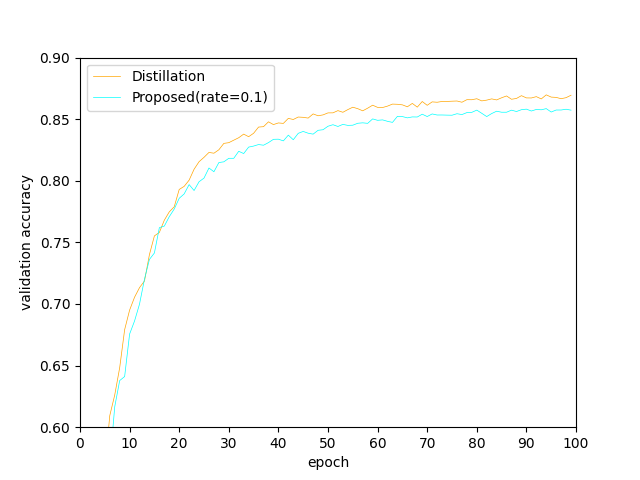
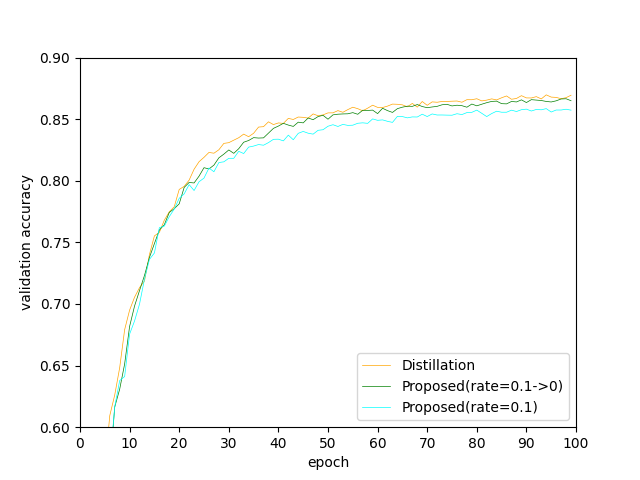
experiments

diff --git a/train.py b/train.py
@@ -15,14 +15,14 @@ from src.utils import *
 import pickle
 
 def main():
-    for i in range(1):
+    for i in range(2):
         print(i)
-        model_size = 'student'
-        epochs = 100
+        model_size = 'teacher'
+        epochs = 150
         batch_size = 128
         # torch.manual_seed(i)
         # np.random.seed(i)
-        seed_everything(i)
+        seed_everything(100+i)
             
         device = torch.device('cuda' if torch.cuda.is_available() else 'cpu')
         es = EarlyStopping(patience=5, verbose=1)
@@ -41,14 +41,10 @@ def main():
         test_dataloader = DataLoader(testset, batch_size=batch_size, shuffle=False)
         
         # setting model
-        # if model_size == 'teacher':
-        #     model = resnet_teacher().to(device)
-        # elif model_size == 'student':
-        #     model = resnet_student().to(device)
         if model_size == 'teacher':
-            model = Teacher().to(device)
+            model = resnet_teacher().to(device)
         elif model_size == 'student':
-            model = Student().to(device)
+            model = resnet_student().to(device)
 
         optim = optimizers.Adam(model.parameters())
         loss_fn = nn.CrossEntropyLoss()
@@ -98,8 +94,8 @@ def main():
             if score <= val_acc:
                 print('save param')
                 score = val_acc
-                # torch.save(model.state_dict(), './logs/resnet/' + str(model_size) + '/' + str(epochs) + '_' + str(i) + '.pth') 
-                torch.save(model.state_dict(), './logs/' + str(model_size) + '/' + str(epochs) + '_' + str(i) + '.pth') 
+                torch.save(model.state_dict(), './logs/resnet/' + str(model_size) + '/' + str(epochs) + '_' + str(i) + '.pth') 
+                # torch.save(model.state_dict(), './logs/' + str(model_size) + '/' + str(epochs) + '_' + str(i) + '.pth') 
 
             history['loss'].append(train_loss)
             history['accuracy'].append(train_acc)
@@ -108,14 +104,14 @@ def main():
 
             print(f'epoch: {epoch+1}, loss: {train_loss:.3f}, accuracy: {train_acc:.3f}, val_loss: {val_loss:.3f}, val_accuracy: {val_acc:.3f}')
         
-        # with open('./history/resnet/' + str(model_size) + '/' + str(epochs) + '_' + str(i) + '.pickle', mode='wb') as f: 
-        #     pickle.dump(history, f)
-        with open('./history/' + str(model_size) + '/' + str(epochs) + '_' + str(i) + '.pickle', mode='wb') as f: 
+        with open('./history/resnet/' + str(model_size) + '/' + str(epochs) + '_' + str(i) + '.pickle', mode='wb') as f: 
             pickle.dump(history, f)
+        # with open('./history/' + str(model_size) + '/' + str(epochs) + '_' + str(i) + '.pickle', mode='wb') as f: 
+        #     pickle.dump(history, f)
 
         # model test
-        # model.load_state_dict(torch.load('./logs/resnet/' + str(model_size) + '/' + str(epochs) + '_' + str(i) + '.pth'))
-        model.load_state_dict(torch.load('./logs/' + str(model_size) + '/' + str(epochs) + '_' + str(i) + '.pth'))
+        model.load_state_dict(torch.load('./logs/resnet/' + str(model_size) + '/' + str(epochs) + '_' + str(i) + '.pth'))
+        # model.load_state_dict(torch.load('./logs/' + str(model_size) + '/' + str(epochs) + '_' + str(i) + '.pth'))
         model.eval()
         
         test = {'acc': [], 'loss': []}
@@ -138,10 +134,10 @@ def main():
         test['acc'].append(test_acc)
         test['loss'].append(test_loss)
         
-        # with open('./history/resnet/' + str(model_size) + '/' + str(epochs) + '_' + 'test' + str(i) + '.pickle', mode='wb') as f: 
-        #     pickle.dump(test, f)
-        with open('./history/' + str(model_size) + '/' + str(epochs) + '_' + 'test' + str(i) + '.pickle', mode='wb') as f: 
+        with open('./history/resnet/' + str(model_size) + '/' + str(epochs) + '_' + 'test' + str(i) + '.pickle', mode='wb') as f: 
             pickle.dump(test, f)
+        # with open('./history/' + str(model_size) + '/' + str(epochs) + '_' + 'test' + str(i) + '.pickle', mode='wb') as f: 
+        #     pickle.dump(test, f)
         
     
 if __name__ == '__main__':

diff --git a/train_cam.py b/train_cam.py
@@ -18,11 +18,12 @@ from src.utils import *
 def main():
     for i in range(2):
         print(i)
-        cam_rate = '10' # default: '01', CAM-curriculum: '10'
-        epochs = 100
+        cam_rate = '01' # default: '01', CAM-curriculum: '10'
+        epochs = 150
         batch_size = 128
-        torch.manual_seed(i)
-        np.random.seed(i)
+        # torch.manual_seed(i)
+        # np.random.seed(i)
+        seed_everything(100+i)
         device = torch.device('cuda' if torch.cuda.is_available() else 'cpu')
         
         data_dir = './data/cifar10'
@@ -62,29 +63,29 @@ def main():
                 preds, student_features = student(images)
                 targets, teacher_features = teacher(images)
                 
-                # student_cam = create_student_cam(student, images, labels, student_features, batch_size, device)
-                # teacher_cam = create_teacher_cam(teacher, images, labels, teacher_features, batch_size, device)
-                # camloss = cam_loss(student_cam, teacher_cam)
-                # if cam_rate == '00':
-                #     loss = camloss
-                # elif cam_rate == '01':
-                #     loss = 0.5*loss_fn(preds, labels) + 0.4*T*T*soft_loss(preds, targets) + 0.1*camloss
-                # elif cam_rate == '02': 
-                #     loss = 0.5*loss_fn(preds, labels) + 0.3*T*T*soft_loss(preds, targets) + 0.2*camloss
-                # elif cam_rate == '03':
-                #     loss = 0.5*loss_fn(preds, labels) + 0.2*T*T*soft_loss(preds, targets) + 0.3*camloss
-                # elif cam_rate == '04':
-                #     loss = 0.5*loss_fn(preds, labels) + 0.1*T*T*soft_loss(preds, targets) + 0.4*camloss
-                # elif cam_rate == '05':
-                #     loss = 0.5*loss_fn(preds, labels) + 0.5*camloss
+                student_cam = create_student_cam(student, images, labels, student_features, batch_size, device)
+                teacher_cam = create_teacher_cam(teacher, images, labels, teacher_features, batch_size, device)
+                camloss = cam_loss(student_cam, teacher_cam)
+                if cam_rate == '00':
+                    loss = camloss
+                elif cam_rate == '01':
+                    loss = 0.5*loss_fn(preds, labels) + 0.4*T*T*soft_loss(preds, targets) + 0.1*camloss
+                elif cam_rate == '02': 
+                    loss = 0.5*loss_fn(preds, labels) + 0.3*T*T*soft_loss(preds, targets) + 0.2*camloss
+                elif cam_rate == '03':
+                    loss = 0.5*loss_fn(preds, labels) + 0.2*T*T*soft_loss(preds, targets) + 0.3*camloss
+                elif cam_rate == '04':
+                    loss = 0.5*loss_fn(preds, labels) + 0.1*T*T*soft_loss(preds, targets) + 0.4*camloss
+                elif cam_rate == '05':
+                    loss = 0.5*loss_fn(preds, labels) + 0.5*camloss
                 
                 # CAM Curriculum learning     
-                if epoch <= 20:
-                    student_cam = create_student_cam(student, images, labels, student_features, batch_size, device)
-                    teacher_cam = create_teacher_cam(teacher, images, labels, teacher_features, batch_size, device)
-                    loss = 0.5*loss_fn(preds, labels) + 0.4*T*T*soft_loss(preds, targets) + 0.1*cam_loss(student_cam, teacher_cam)
-                else:
-                    loss = 0.5*loss_fn(preds, labels) + 0.5*T*T*soft_loss(preds, targets)
+                # if epoch <= 20:
+                #     student_cam = create_student_cam(student, images, labels, student_features, batch_size, device)
+                #     teacher_cam = create_teacher_cam(teacher, images, labels, teacher_features, batch_size, device)
+                #     loss = 0.5*loss_fn(preds, labels) + 0.4*T*T*soft_loss(preds, targets) + 0.1*cam_loss(student_cam, teacher_cam)
+                # else:
+                #     loss = 0.5*loss_fn(preds, labels) + 0.5*T*T*soft_loss(preds, targets)
                 
                 optim.zero_grad()
                 loss.backward()

diff --git a/result.py b/result.py
@@ -3,7 +3,7 @@ import numpy as np
 import matplotlib.pyplot as plt
 
 def main():           
-    epochs = 100
+    epochs = 150
     
     # setting iteration
     if epochs == 200:
@@ -20,7 +20,17 @@ def main():
         teacher_iter = 5 
         student_iter = 0 
         st_iter      = 5 
-        cam01_iter   = 5 # NOW
+        cam01_iter   = 5 
+        cam02_iter   = 0 
+        cam03_iter   = 0
+        cam04_iter   = 0
+        cam05_iter   = 0
+        cam10_iter   = 5
+    elif epochs == 150: # 乱数系列 seed_everything
+        teacher_iter = 5 
+        student_iter = 0 
+        st_iter      = 5
+        cam01_iter   = 0
         cam02_iter   = 0 
         cam03_iter   = 0
         cam04_iter   = 0
@@ -82,39 +92,39 @@ def main():
     fig.patch.set_facecolor('white')
     plt.xlabel('epoch')
     plt.ylabel('validation accuracy')
-    # plt.plot(x, teacher_acc, label='Teacher',               linewidth=0.5, color='blue')
+    plt.plot(x, teacher_acc, label='Teacher',               linewidth=0.5, color='blue')
     # plt.plot(x, student_acc, label='Student',               linewidth=0.5, color='red')
     plt.plot(x, st_acc,      label='Distillation',          linewidth=0.5, color='orange')
     # plt.plot(x, cam10_acc,   label='Proposed(rate=0.1->0)', linewidth=0.5, color='green')
-    plt.plot(x, cam01_acc,   label='Proposed(rate=0.1)',    linewidth=0.5, color='cyan')
+    # plt.plot(x, cam01_acc,   label='Proposed(rate=0.1)',    linewidth=0.5, color='cyan')
     # plt.plot(x, cam02_acc,   label='Proposed(rate=0.2)',    linewidth=0.5, color='magenta')
     # plt.plot(x, cam03_acc,   label='Proposed(rate=0.3)',    linewidth=0.5, color='yellow')
     # plt.plot(x, cam04_acc,   label='Proposed(rate=0.4)',    linewidth=0.5, color='brown')
     # plt.plot(x, cam05_acc,   label='Proposed(rate=0.5)',    linewidth=0.5, color='black')
     plt.xticks(np.arange(0, epochs+10, epochs/10))
     plt.yticks(np.arange(0, 0.95, 0.05))
-    plt.xlim(0, epochs)
+    plt.xlim(0, epochs+2)
     plt.ylim(0.60, 0.90)
     plt.legend()
     plt.savefig('./result/resnet_' + str(epochs) + '.png')
     
     # plot CAM_loss
-    cam01_loss = load_camloss(cam01_path, epochs, cam01_iter)
+    # cam01_loss = load_camloss(cam01_path, epochs, cam01_iter)
     # cam02_loss = load_camloss(cam02_path, epochs, cam02_iter)
     # cam03_loss = load_camloss(cam03_path, epochs, cam03_iter)
     # cam04_loss = load_camloss(cam04_path, epochs, cam04_iter)
     # cam05_loss = load_camloss(cam05_path, epochs, cam05_iter)
-    fig = plt.figure()
-    fig.patch.set_facecolor('white')
-    plt.xlabel('epoch')
-    plt.ylabel('CAM Loss')
-    plt.plot(x, cam01_loss, label='CAM_ratio=0.1', linewidth=0.5, color='cyan')
+    # fig = plt.figure()
+    # fig.patch.set_facecolor('white')
+    # plt.xlabel('epoch')
+    # plt.ylabel('CAM Loss')
+    # plt.plot(x, cam01_loss, label='CAM_ratio=0.1', linewidth=0.5, color='cyan')
     # plt.plot(x, cam02_loss, label='CAM_ratio=0.2', linewidth=0.5, color='magenta')
     # plt.plot(x, cam03_loss, label='CAM_ratio=0.3', linewidth=0.5, color='yellow')
     # plt.plot(x, cam04_loss, label='CAM_ratio=0.4', linewidth=0.5, color='blown')
     # plt.plot(x, cam05_loss, label='CAM_ratio=0.5', linewidth=0.5, color='black')
-    plt.xticks(np.arange(0, epochs+10, epochs/10))
-    plt.savefig('./result/CAMLoss_' + str(epochs) + '.png')
+    # plt.xticks(np.arange(0, epochs+10, epochs/10))
+    # plt.savefig('./result/CAMLoss_' + str(epochs) + '.png')
     
 
 def load_hist(path, epochs, iteration):

diff --git a/train_kd.py b/train_kd.py
@@ -14,13 +14,13 @@ from src.kd_loss.st import SoftTargetLoss
 import pickle
 
 def main():
-    for i in range(5):
+    for i in range(2):
         print(i)
-        epochs = 100
+        epochs = 150
         batch_size = 128
-        torch.manual_seed(i)
-        np.random.seed(i)
-        # seed_everything(i)
+        # torch.manual_seed(i)
+        # np.random.seed(i)
+        seed_everything(100+i)
         device = torch.device('cuda' if torch.cuda.is_available() else 'cpu')
         
         data_dir = './data/cifar10'
